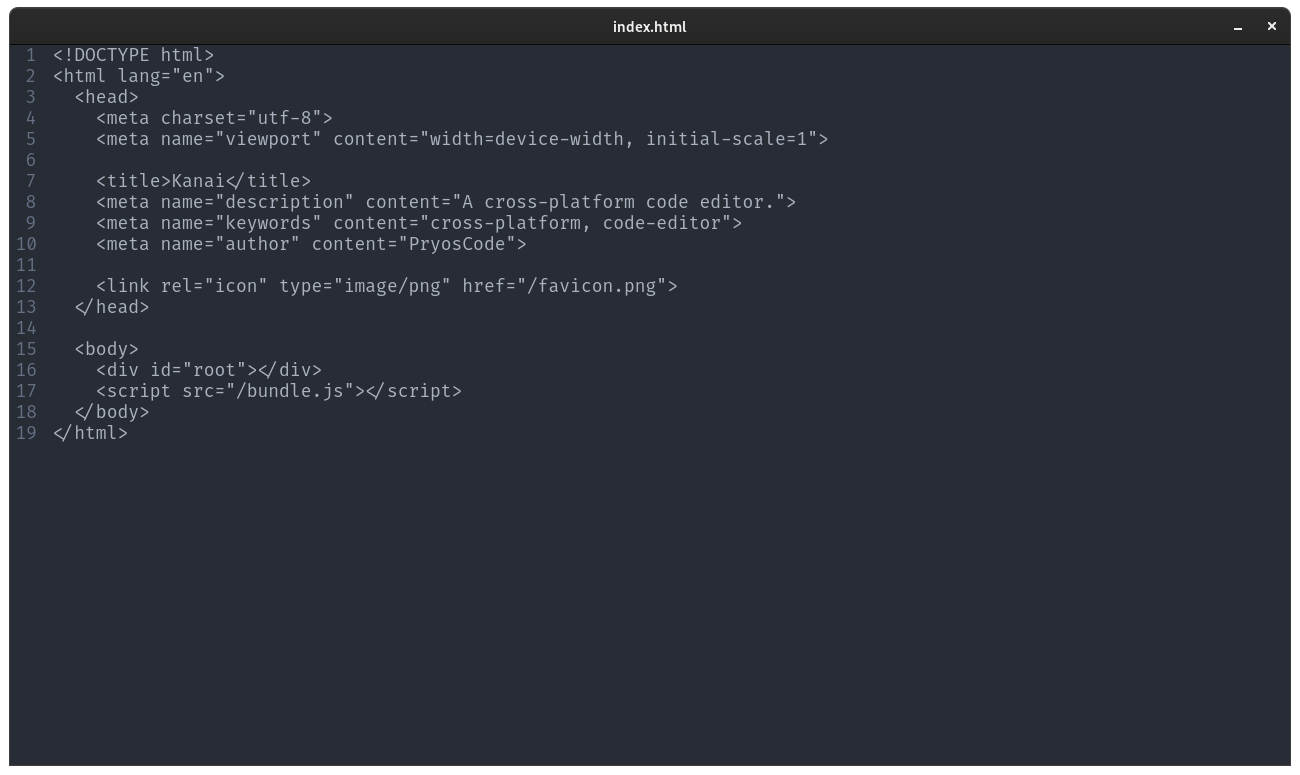
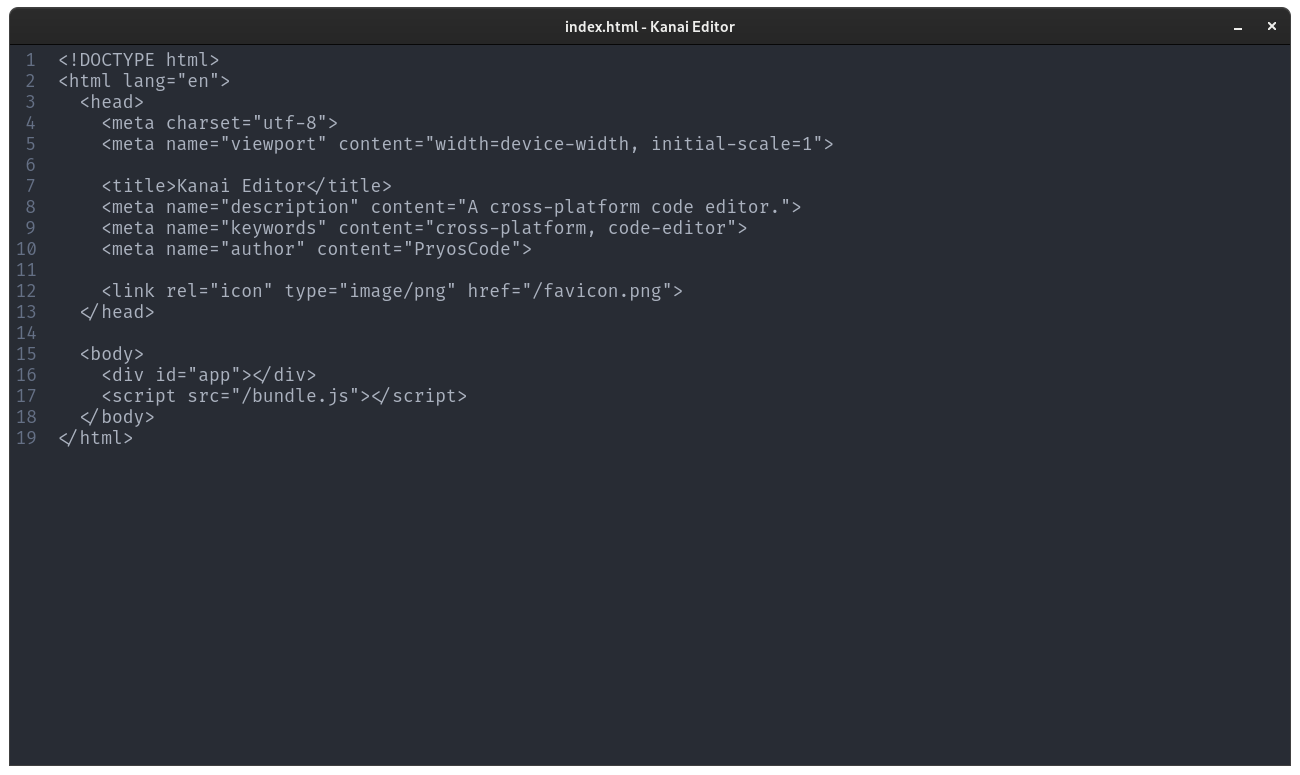
Update Title

Changed region(s): [[0.0308, 0.0619, 0.6462, 0.5884], [0.0, 0.2787, 0.0308, 0.5574], [0.4308, 0.031, 0.5538, 0.0619]]

diff --git a/src/main/main.js b/src/main/main.js
@@ -30,7 +30,7 @@ const createWindow = () => {
       { label: "New Window", accelerator: "CTRL+SHIFT+N", enabled: false },
       { type: "separator" },
       { label: "Open File...", accelerator: "CTRL+O", click: () => {
-        dialog.showOpenDialog(win, { title: "Kanai", properties: [ "openFile", "showHiddenFiles" ] }).then((result) => {
+        dialog.showOpenDialog(win, { title: "Kanai Editor", properties: [ "openFile", "showHiddenFiles" ] }).then((result) => {
           if (!result.canceled) {
             win.webContents.send("open", result.filePaths[0]);
           }
@@ -111,7 +111,7 @@ ipcMain.on("write", (event, file, content, hash) => {
   });
 });
 ipcMain.on("writeAs", (event, content) => {
-  dialog.showSaveDialog(win, { title: "Kanai", properties: [ "showHiddenFiles" ] }).then((result) => {
+  dialog.showSaveDialog(win, { title: "Kanai Editor", properties: [ "showHiddenFiles" ] }).then((result) => {
     if (!result.canceled) {
       const file = result.filePath;
       fs.writeFileSync(file, content);

diff --git a/src/renderer/Editor.tsx b/src/renderer/Editor.tsx
@@ -58,7 +58,7 @@ export default class Editor extends React.Component<{ file: string }, { name: st
     return (
       <>
         <Helmet>
-          <title>{this.state.name}{this.state.currentHash === this.state.savedHash ? "" : "*"}</title>
+          <title>{this.state.currentHash === this.state.savedHash ? "" : "\u2022"} {this.state.name} - Kanai Editor</title>
         </Helmet>
         <div id="editor">
           <div ref={this.lines}>

diff --git a/src/renderer/public/index.html b/src/renderer/public/index.html
@@ -4,7 +4,7 @@
     <meta charset="utf-8">
     <meta name="viewport" content="width=device-width, initial-scale=1">
 
-    <title>Kanai</title>
+    <title>Kanai Editor</title>
     <meta name="description" content="A cross-platform code editor.">
     <meta name="keywords" content="cross-platform, code-editor">
     <meta name="author" content="PryosCode">

diff --git a/README.md b/README.md
@@ -12,7 +12,7 @@
     <a href="https://github.com/PryosCode/Kanai/blob/master/LICENSE"><img alt="License" src="https://img.shields.io/github/license/PryosCode/Kanai?label=License"></a>
 </p>
 
-# <a href="https://github.com/PryosCode/Kanai/blob/master/src/renderer/public/favicon.png"><img src="https://github.com/PryosCode/Kanai/raw/master/src/renderer/public/favicon.png" alt="File" width="30" height="auto"></a> Kanai
+# <a href="https://github.com/PryosCode/Kanai/blob/master/src/renderer/public/favicon.png"><img src="https://github.com/PryosCode/Kanai/raw/master/src/renderer/public/favicon.png" alt="File" width="30" height="auto"></a> Kanai Editor
 
 A cross-platform code editor.
 
